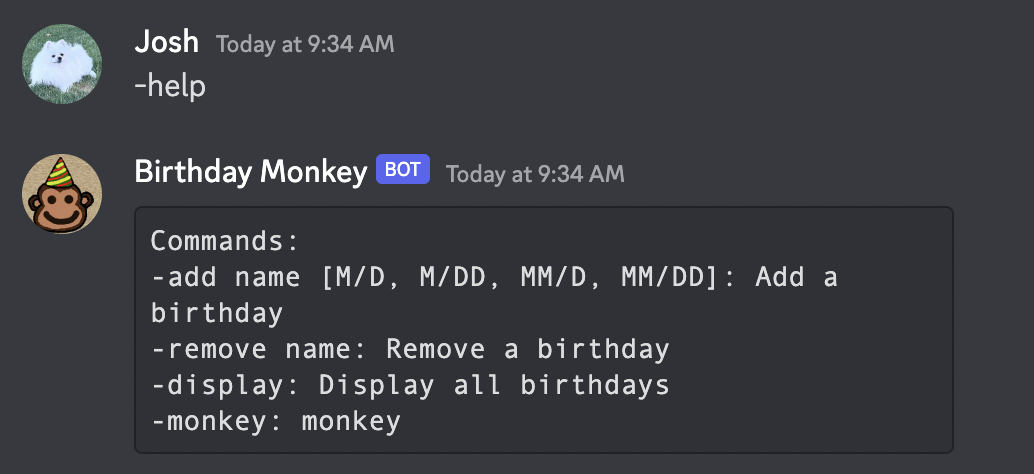
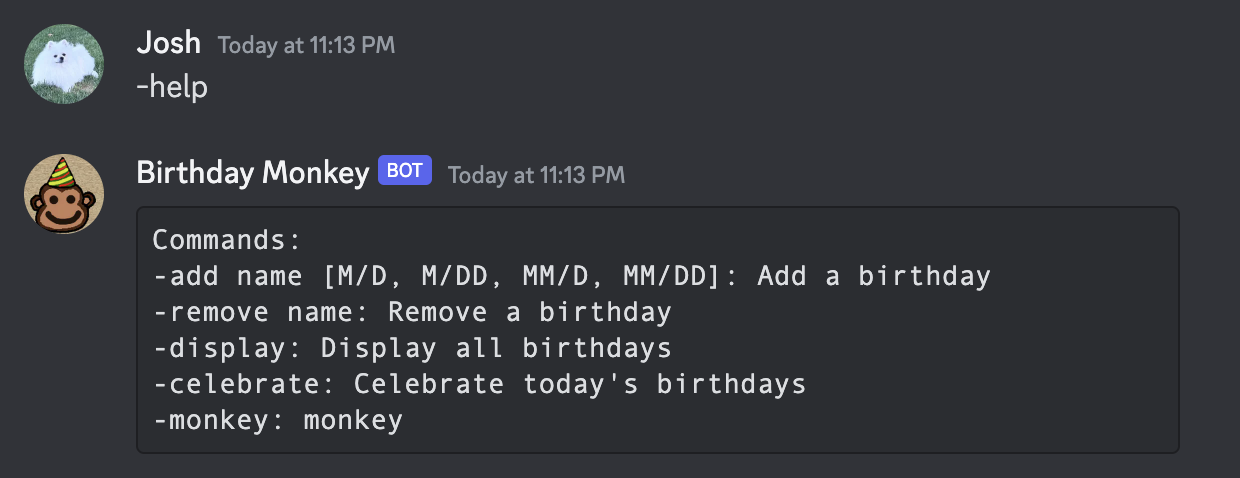
updated README

diff --git a/README.md b/README.md
@@ -6,19 +6,22 @@
 
 # Example Usage:
 
-## help command
+## `help` command
 ![help example](images/help.png)
 
-## add command
+## `add` command
 
 ![add example](images/add.png)
 
-## display command
+## `display` command
 
 ![display example](images/display.png)
 
-## remove command
+## `remove` command
 ![remove example](images/remove.png)
 
-## monkey command (best one)
+## `celebrate` command
+![celebrate example](images/celebrate.png)
+
+## `monkey` command (best one)
 ![monkey example](images/monkey.png)
